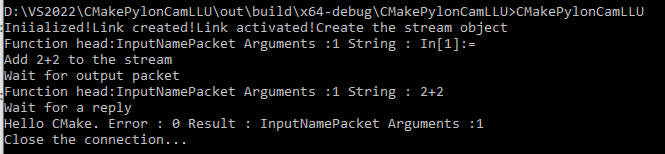
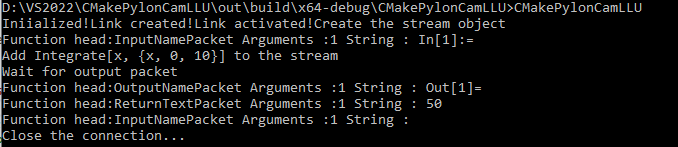
It works!

Changed region(s): [[0.0, 0.0, 0.9925, 1.0]]

diff --git a/CMakePylonCamLLU/src/CMakePylonCamLLU.cpp b/CMakePylonCamLLU/src/CMakePylonCamLLU.cpp
@@ -51,12 +51,14 @@ int main()
 	cout << "Function head:"  << inputPacketFunction.getHead() << " Arguments :" << inputPacketFunction.getArgc() <<" String : " << inputNameString << endl;
 	
 	// Write the expression to the stream
-	std::cout << "Add 2+2+2 to the stream" << std::endl;
+	std::cout << "Add Integrate[x, {x, 0, 10}] to the stream" << std::endl;
 	LLU::WS::Function enterExpressionFunction;
-	enterExpressionFunction.setHead("EnterExpressionPacket");
+	enterExpressionFunction.setHead("EnterTextPacket");
+	//enterExpressionFunction.setHead("EnterExpressionPacket");
+
 	enterExpressionFunction.setArgc(1);
 
-	test << enterExpressionFunction << "2+2+2";
+	test << enterExpressionFunction << "Integrate[x, {x, 0, 10}]";
 
 	// Wait for output packet Out[1]:= and the computed results
 	std::cout << "Wait for output packet" << std::endl;
@@ -67,6 +69,10 @@ int main()
 	test >> outputPacketFunction >> outputNameString >> returnExpressionPacket >> result;
 	cout << "Function head:" << outputPacketFunction.getHead() << " Arguments :" << outputPacketFunction.getArgc() << " String : " << outputNameString << endl;
 	cout << "Function head:" << returnExpressionPacket.getHead() << " Arguments :" << returnExpressionPacket.getArgc() << " String : " << result << endl;
+	LLU::WS::Function Packet;
+	test >> Packet;
+	cout << "Function head:" << Packet.getHead() << " Arguments :" << Packet.getArgc() << " String : " << endl;
+
 
 
 	std::cout << "Close the connection..." << std::endl;
